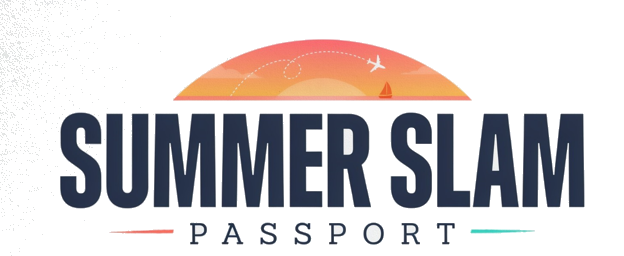
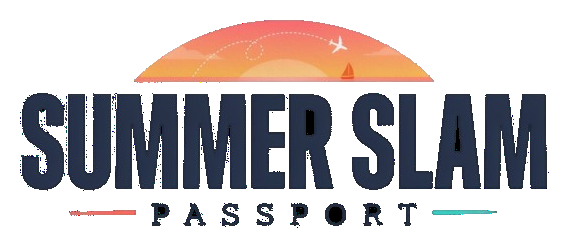
Update Summer Slam passport header from new transparent artwork.
Replace header source with removebg export, regenerate keyed PNG at native 568x237, and cap display size to avoid upscaling blur.

diff --git a/src/pages/summer-slam/_components/passport-assets.ts b/src/pages/summer-slam/_components/passport-assets.ts
@@ -2,7 +2,7 @@
  * Shared Summer Slam artwork — used by landing, live passport, and demo passport.
  * Bump ASSET_VERSION whenever files in /public/summer-slam change.
  */
-export const ASSET_VERSION = "2026-06-20-stamps-v6";
+export const ASSET_VERSION = "2026-06-20-header-v7";
 
 export function summerSlamAsset(path: string): string {
   return `${path}?v=${ASSET_VERSION}`;
@@ -10,8 +10,8 @@ export function summerSlamAsset(path: string): string {
 
 export const PASSPORT_HEADER = {
   src: summerSlamAsset("/summer-slam/passport-header.png"),
-  width: 624,
-  height: 256,
+  width: 568,
+  height: 237,
 } as const;
 
 export const STAMP_IMAGES = {

diff --git a/src/pages/summer-slam/_components/passport-hero.tsx b/src/pages/summer-slam/_components/passport-hero.tsx
@@ -35,7 +35,7 @@ export function PassportHero({
             alt={title}
             width={PASSPORT_HEADER.width}
             height={PASSPORT_HEADER.height}
-            className="w-full max-w-[min(100%,624px)] h-auto"
+            className="w-full max-w-[min(100%,568px)] h-auto"
           />
         </div>
 

diff --git a/src/pages/summer-slam/page.tsx b/src/pages/summer-slam/page.tsx
@@ -57,7 +57,7 @@ export default function SummerSlamLandingPage() {
             alt={campaign?.title ?? "Summer Slam Passport"}
             width={PASSPORT_HEADER.width}
             height={PASSPORT_HEADER.height}
-            className="w-full max-w-[min(100%,624px)] h-auto"
+            className="w-full max-w-[min(100%,568px)] h-auto"
           />
         </div>
 